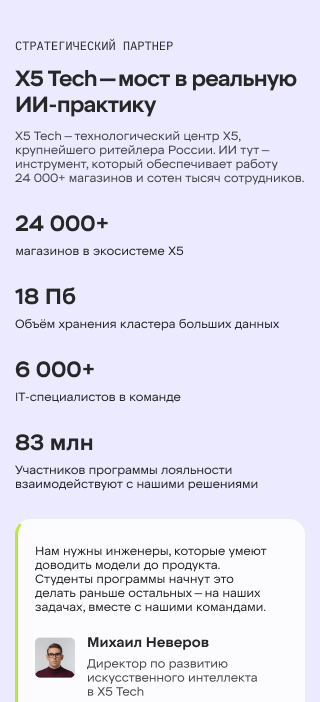
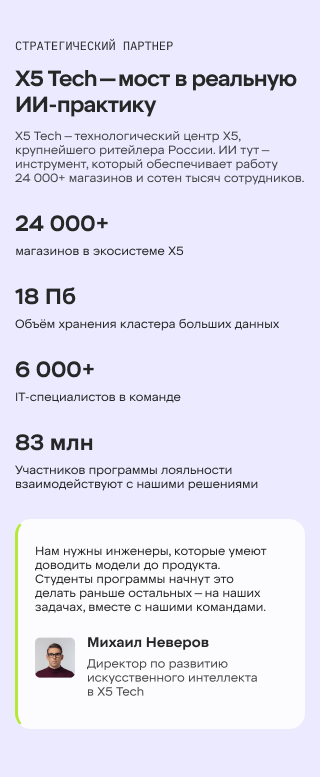
fix(mobile): все секции сведены с макетом по замерам
Каждая секция мобильной теперь совпадает с новым эталоном по высоте в пределах
16px при высоте страницы 19901; у четырёх расхождение ровно ноль. Суммарное
отклонение по всем секциям, кроме преподавателей, — 4px.

Что оказалось не так и исправлено:

06 «Как поступить» (-258 -> -6). Статы и таймлайны в макете лежат на серой
подложке во всю ширину, а карточки внутри белые — у нас было наоборот. Плюс
карточка стата 100 вместо 110, зазор 10 вместо 11, цифры 44px вместо 57,
таблетка даты 32 вместо 36, лаймовая шапка строки экзаменов 42 вместо 60,
внутренние строки 44 вместо 49, интерлиньяж подзаголовка 18 вместо 14.

09 «Технологии» (+85 -> +6). Карточка направления на мобильной не квадратная:
290x268 по замеру. Раскладка внутри задана процентами, поэтому перенеслась
один в один — доли иллюстрации, заголовка и подписи совпали с макетом до 1%.
Зазор между карточками 20 вместо 27, интерлиньяж подзаголовка 18 вместо 14.

07 «Преподаватели» (-1290 -> -700). Карточка на мобильной 290x330, а не
десктопная пропорция 260/332, дававшая 370px. После правки расхождение стало
ровно -700 = две недостающие карточки (330 + 20 зазор, дважды) — то есть
секция сходится с макетом полностью, кроме сознательно не добавленных
Ерохина и Сахнова.

05 «Треки» (-25 -> 0), 08 «X5 — мост» (-17 -> 0), 13 футер (-41 -> 0) —
нижние отступы.

Все правки ограничены мобильной веткой: сквозная сверка десктопа после них
не изменилась ни на сотую процента. Доступность — ноль замечаний, ширины
[…]

diff --git a/site/components/sections/KakPostupit.tsx b/site/components/sections/KakPostupit.tsx
@@ -32,7 +32,9 @@ function Pill({ children, mobile }: { children: React.ReactNode; mobile?: boolea
   return (
     <span
       className={`inline-flex items-center rounded-full border border-[#b6e835] font-mono uppercase text-ink ${
-        mobile ? "h-[32px] px-[16px] text-[11px]" : "h-[36px] px-[18px] text-[12px]"
+        // Мобильная таблетка 36px — по замеру макета (было 32): на десяти шагах приёма
+        // недобор в 4px давал 40px к высоте секции
+        mobile ? "h-[36px] px-[16px] text-[11px]" : "h-[36px] px-[18px] text-[12px]"
       }`}
     >
       {children}
@@ -205,39 +207,47 @@ export default function KakPostupit() {
       {/* ===== Мобильная: вертикальный флоу ===== */}
       <div className="canvas-320 bg-white px-[15px] pb-[10px] md:hidden">
         <h2 data-reveal className="pt-[30px] text-[22px] font-bold leading-[26px] text-ink">{title}</h2>
-        <p data-reveal className="mt-[10px] whitespace-pre-line text-[12px] leading-[18px] text-[rgba(39,39,39,0.85)]">
+        {/* Интерлиньяж 14 — шаг строк в макете (было 18, и на четырёх строках подзаголовка
+            это уводило вниз весь остаток секции на 14px) */}
+        <p data-reveal className="mt-[10px] whitespace-pre-line text-[12px] leading-[14px] text-[rgba(39,39,39,0.85)]">
           {subtitleM}
         </p>
 
-        {/* Статы стеком */}
-        <div data-reveal className="mt-[20px] flex flex-col gap-[10px]">
-          <div className="relative h-[100px] rounded-[14px] bg-[#f0efff]">
-            <p className="absolute left-[20px] top-[20px] text-[10px] font-medium uppercase leading-[15px] text-ink">
-              {price.label}
-            </p>
-            <p className="absolute left-[20px] top-[42px] text-[18px] font-bold text-ink">
-              225 000 ₽* / семестр
-            </p>
-            <p className="absolute left-[20px] top-[70px] text-[10px] text-ink">{price.note}</p>
-          </div>
-          {stats.map((s, i) => (
-            <div key={i} className="relative h-[100px] rounded-[14px] bg-paper">
-              <p className="absolute left-[20px] top-[24px] text-[10px] font-medium uppercase leading-[15px] text-[#181818]">
-                {s.label}
+        {/* Статы и таймлайны лежат на серой подложке во всю ширину, а карточки внутри белые —
+            по замеру макета (у левого края #fafafa, внутри карточек #ffffff). Раньше было
+            наоборот: белая секция и серые карточки. */}
+        <div className="-mx-[15px] mt-[20px] bg-[#fafafa] px-[15px] pb-[57px] pt-[8px]">
+          {/* Статы стеком: карточка 110px, зазор 11 — замер макета (было 100 и 10) */}
+          <div data-reveal className="flex flex-col gap-[11px]">
+            <div className="relative h-[110px] rounded-[14px] bg-[#f0efff]">
+              <p className="absolute left-[20px] top-[20px] text-[10px] font-medium uppercase leading-[15px] text-ink">
+                {price.label}
               </p>
-              {s.sub && <p className="absolute left-[20px] top-[40px] text-[10px] text-ink">{s.sub}</p>}
-              <p className="absolute bottom-[10px] right-[20px] text-[44px] font-bold leading-none text-ink">
-                <Num>{s.value}</Num>
-                {s.unit && <span className="ml-[4px] text-[22px]">{s.unit}</span>}
+              <p className="absolute left-[20px] top-[42px] text-[18px] font-bold text-ink">
+                225 000 ₽* / семестр
               </p>
+              <p className="absolute left-[20px] top-[70px] text-[10px] text-ink">{price.note}</p>
             </div>
-          ))}
-        </div>
+            {stats.map((s, i) => (
+              <div key={i} className="relative h-[110px] rounded-[14px] bg-white">
+                <p className="absolute left-[20px] top-[24px] text-[10px] font-medium uppercase leading-[15px] text-[#181818]">
+                  {s.label}
+                </p>
+                {s.sub && <p className="absolute left-[20px] top-[40px] text-[10px] text-ink">{s.sub}</p>}
+                {/* 57px — по высоте цифр в макете (44px давали 34px против макетных 44) */}
+                <p className="absolute bottom-[10px] right-[20px] text-[57px] font-bold leading-none text-ink">
+                  <Num>{s.value}</Num>
+                  {s.unit && <span className="ml-[4px] text-[28px]">{s.unit}</span>}
+                </p>
+              </div>
+            ))}
+          </div>
 
-        {/* Таймлайны */}
-        <div data-reveal className="mt-[26px] flex flex-col gap-[26px]">
-          <MobileColumn col={budget} />
-          <MobileColumn col={contract} />
+          {/* Таймлайны */}
+          <div data-reveal className="mt-[26px] flex flex-col gap-[26px]">
+            <MobileColumn col={budget} />
+            <MobileColumn col={contract} />
+          </div>
         </div>
 
         {/* Вступительные экзамены */}
@@ -245,18 +255,20 @@ export default function KakPostupit() {
         <p data-reveal className="mt-[6px] whitespace-pre-line text-[12px] leading-[16px] text-ink">
           {exams.captionM || exams.caption}
         </p>
-        <div data-reveal className="mt-[16px] flex flex-col gap-[16px]">
+        <div data-reveal className="mt-[16px] flex flex-col gap-[20px]">
           {exams.rows.map((r, i) => (
             <div key={i} className="overflow-hidden rounded-[14px] border border-[#ececec]">
-              <div className="flex h-[42px] items-center justify-center bg-lime text-[14px] font-medium text-ink">
+              {/* Лаймовая шапка строки — 60px по замеру макета (было 42): на четырёх
+                  предметах недобор давал 72px к высоте секции */}
+              <div className="flex h-[60px] items-center justify-center bg-lime text-[14px] font-medium text-ink">
                 {r.subject}
               </div>
-              <div className="flex h-[44px] items-center justify-center border-b border-[#ececec] text-[14px] text-ink">
+              <div className="flex h-[49px] items-center justify-center border-b border-[#ececec] text-[14px] text-ink">
                 {r.required}
               </div>
               <div className="grid grid-cols-2 text-[14px] text-ink">
-                <div className="flex h-[44px] items-center justify-center">Бюджет: {r.budget}</div>
-                <div className="flex h-[44px] items-center justify-center border-l border-[#ececec]">
+                <div className="flex h-[49px] items-center justify-center">Бюджет: {r.budget}</div>
+                <div className="flex h-[49px] items-center justify-center border-l border-[#ececec]">
                   Контракт: {r.contract}
                 </div>
               </div>

diff --git a/site/components/sections/Tehnologii.tsx b/site/components/sections/Tehnologii.tsx
@@ -98,7 +98,14 @@ function Illu({ i, mobile }: { i: number; mobile?: boolean }) {
 function TechCard({ i, mobile }: { i: number; mobile?: boolean }) {
   const c = CARDS[i];
   return (
-    <div className="hover-lift relative aspect-square w-full overflow-hidden rounded-[15px] bg-paper">
+    // На мобильной карточка не квадратная: по замеру макета 290×268. Раскладка внутри задана
+    // процентами и потому переносится один в один — доли иллюстрации, заголовка и подписи
+    // в макете совпадают с нашими до 1%. Десктоп остаётся квадратным.
+    <div
+      className={`hover-lift relative w-full overflow-hidden rounded-[15px] bg-paper ${
+        mobile ? "aspect-[290/268]" : "aspect-square"
+      }`}
+    >
       <Illu i={i} mobile={mobile} />
       <p className="absolute left-[7%] top-[58.9%] whitespace-pre-line text-[18px] font-bold leading-[18px] tracking-[-0.175px] text-ink">
         {c.title}
@@ -149,10 +156,10 @@ export default function Tehnologii() {
             className="h-[26px] w-auto shrink-0"
           />
         </div>
-        <p data-reveal className="mt-[10px] whitespace-pre-line text-[12px] leading-[18px] text-[rgba(39,39,39,0.85)]">
+        <p data-reveal className="mt-[10px] whitespace-pre-line text-[12px] leading-[14px] text-[rgba(39,39,39,0.85)]">
           {"Вот несколько направлений над которыми\nработает большая команда инженеров\nкомпании"}
         </p>
-        <div data-reveal className="mt-[20px] flex flex-col gap-[20px]">
+        <div data-reveal className="mt-[20px] flex flex-col gap-[27px]">
           {CARDS.map((_, i) => (
             <TechCard key={i} i={i} mobile />
           ))}

diff --git a/site/components/sections/Prepodavateli.tsx b/site/components/sections/Prepodavateli.tsx
@@ -10,7 +10,9 @@ const T = teachers as { title: string; subtitle: string; subtitleM: string; teac
 
 function TeacherCard({ t }: { t: Teacher }) {
   return (
-    <div className="group relative aspect-[260/332] w-full overflow-hidden rounded-[18px] bg-[#d8d8d8]">
+    // Пропорция карточки на мобильной — 290×330 по замеру макета (десктопная 260×332 давала
+    // 370px при ширине 290, то есть на 40px выше макетной). Десктоп остаётся прежним.
+    <div className="group relative aspect-[290/330] w-full overflow-hidden rounded-[18px] bg-[#d8d8d8] md:aspect-[260/332]">
       {/* Фото (свой кроп; у Тынченко контейнер на всю высоту карточки) */}
       <div
         className={`absolute inset-x-0 top-0 overflow-hidden rounded-[20px] ${t.fill ? "h-full" : "h-[86.45%]"}`}

diff --git a/site/components/sections/Most.tsx b/site/components/sections/Most.tsx
@@ -108,7 +108,7 @@ export default function Most() {
       </div>
 
       {/* ===== Мобильная: вертикальный стек ===== */}
-      <div className="canvas-320 px-[15px] pb-[30px] pt-[30px] md:hidden">
+      <div className="canvas-320 px-[15px] pb-[47px] pt-[30px] md:hidden">
         <p data-reveal className="font-mono text-[11px] uppercase text-ink">СТРАТЕГИЧЕСКИЙ ПАРТНЕР</p>
         <h2 data-reveal className="mt-[12px] text-[20px] font-bold leading-[25px] tracking-[-0.5px] text-ink">
           {"X5 Tech — мост в реальную"}

diff --git a/site/components/Footer.tsx b/site/components/Footer.tsx
@@ -152,7 +152,7 @@ export default function Footer() {
       </div>
 
       {/* ===== Мобильная стопка: точные интервалы из mobile-abs.json (футер 17232–18535) ===== */}
-      <div className="canvas-320 px-[15px] pb-[129px] pt-[33px] md:hidden">
+      <div className="canvas-320 px-[15px] pb-[170px] pt-[33px] md:hidden">
         <FooterLogos />
         <p className="mt-[20px] w-[247px] whitespace-pre-line text-[12px] leading-[14px]">{f.description}</p>
 

diff --git a/site/components/sections/Treki.tsx b/site/components/sections/Treki.tsx
@@ -129,7 +129,7 @@ export default function Treki() {
       </div>
 
       {/* ===== Мобильная: вертикальный флоу ===== */}
-      <div className="canvas-320 bg-white px-[15px] pb-[10px] md:hidden">
+      <div className="canvas-320 bg-white px-[15px] pb-[35px] md:hidden">
         <h2 data-reveal className="whitespace-pre-line pt-[30px] text-[22px] font-bold leading-[26px] tracking-[-0.3px] text-ink">
           {title}
         </h2>
